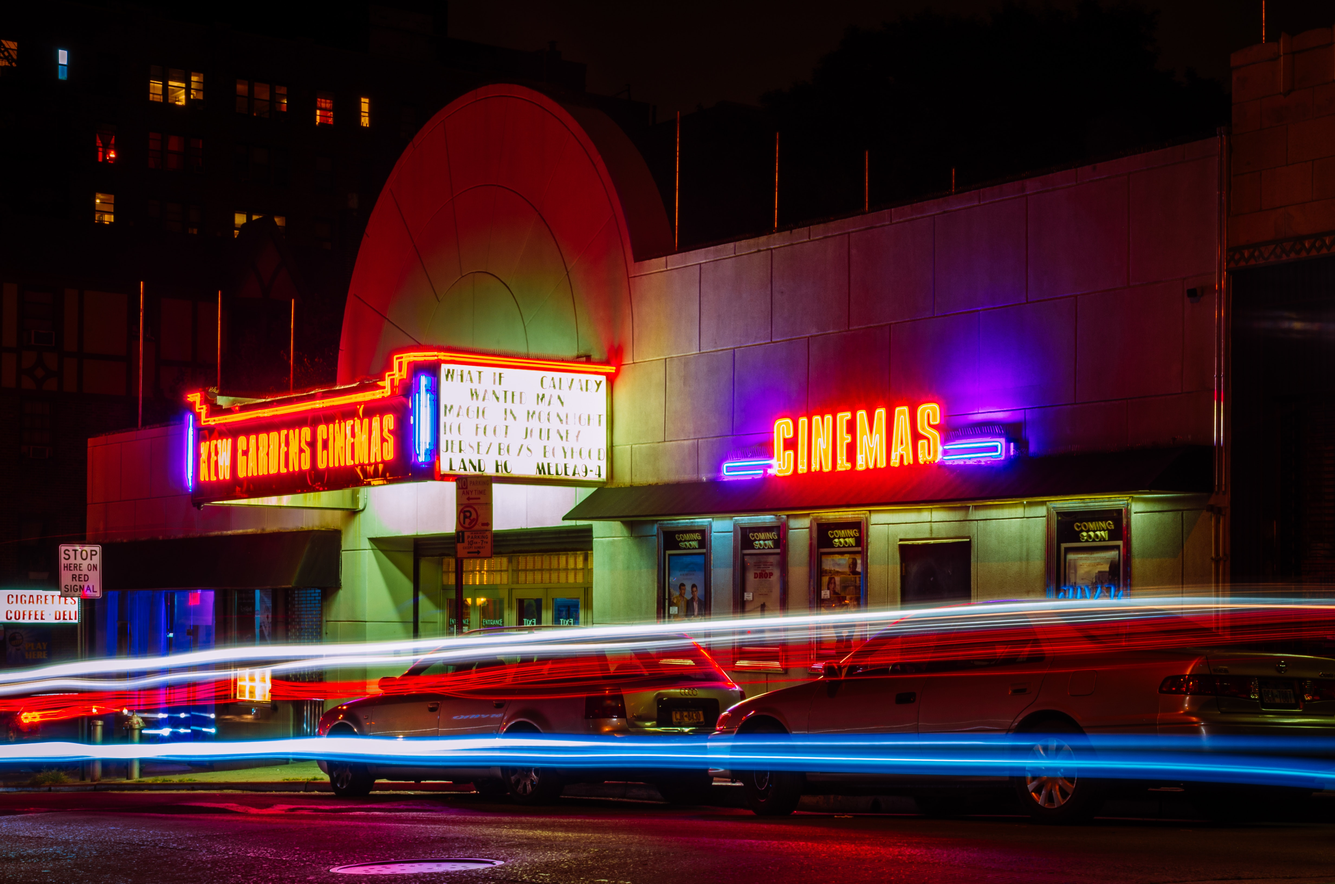
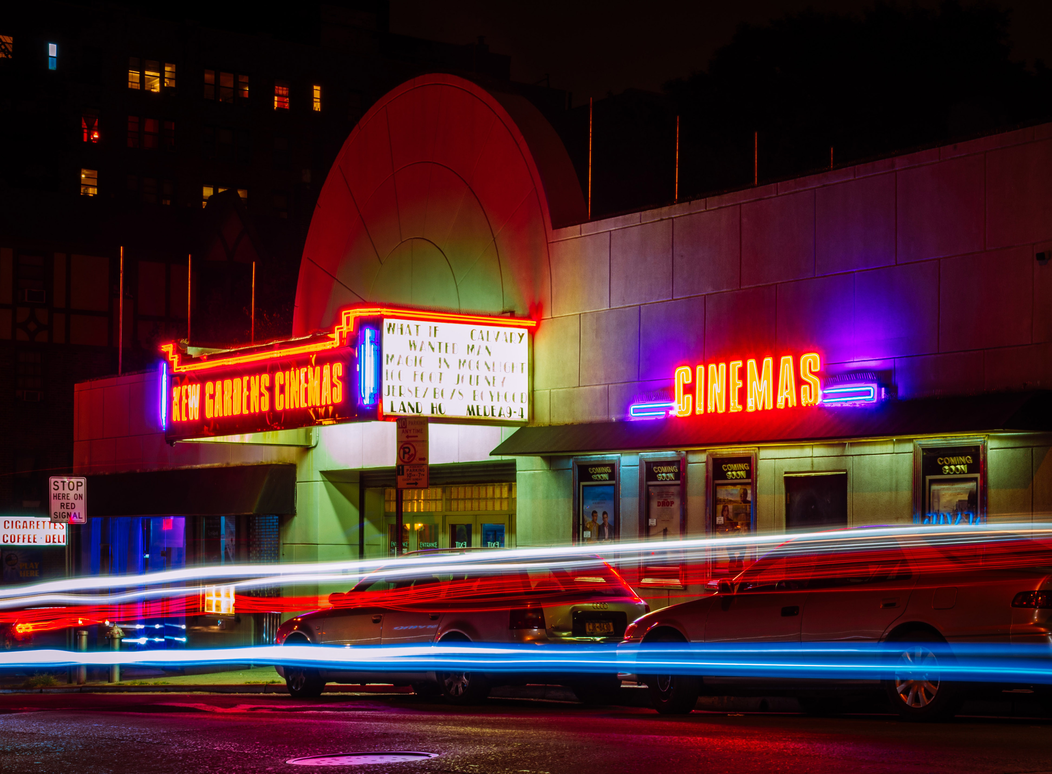
additional changes to Portfolio page. Cropped images.

diff --git a/portfolio.html b/portfolio.html
@@ -82,11 +82,22 @@
                     <div class="col-12 col-xs-12 col-sm-6 col-md-6 col-lg-4 col-xl-4 mb-4">
                         <div class="row">
                             <div class="col-12">
-                                <img class="about-4" src="/assets/images/van-1.jpg" alt="coding photo">
+                                <img class="about-4" src="https://diembe.github.io/Responsive-Portfolio/assets/images/van-1.jpg" alt="coding photo">
                                 <!-- Photo by Alfonso Escalante from Pexels -->
                             </div>
                             <div class="col-12" style="position: absolute;bottom: 0;">
                                 <p style="padding:10px; background-color:rgba(47, 80, 107, 0.6901960784313725); text-align:center; color:white;">Van Customization Application</p>
+                            </div>
+                        </div>
+                    </div>
+                    <div class="col-12 col-xs-12 col-sm-6 col-md-6 col-lg-4 col-xl-4 mb-4">
+                        <div class="row">
+                            <div class="col-12">
+                                <img class="about-4" src="https://diembe.github.io/Responsive-Portfolio/assets/images/hello-1.jpg" alt="coding photo">
+                                <!-- Photo by Tyler Lastovich from Pexels -->
+                            </div>
+                            <div class="col-12" style="position: absolute;bottom: 0;">
+                                <p style="padding:10px; background-color:rgba(47, 80, 107, 0.6901960784313725); text-align:center; color:white;">Hello World</p>
                             </div>
                         </div>
                     </div>
